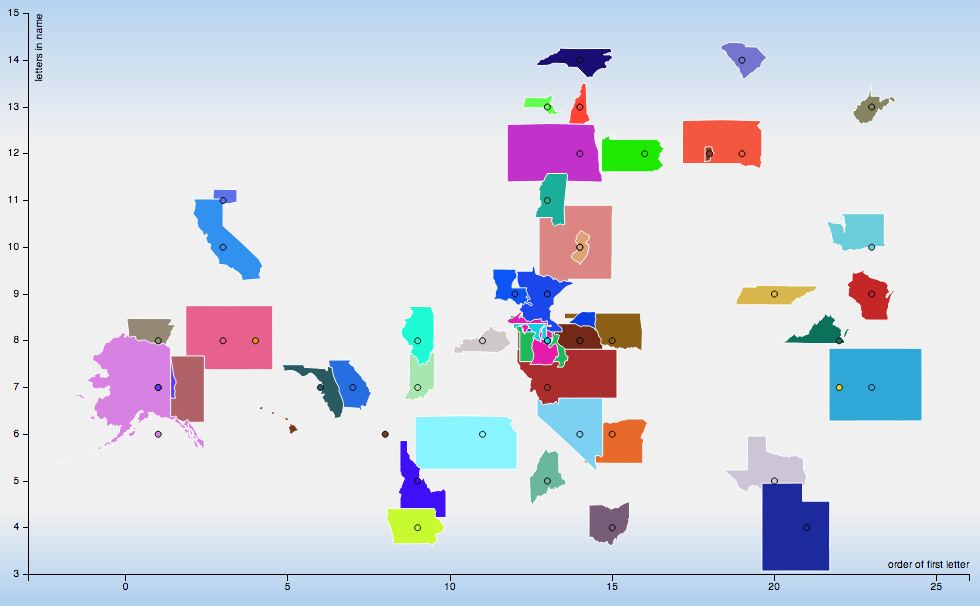
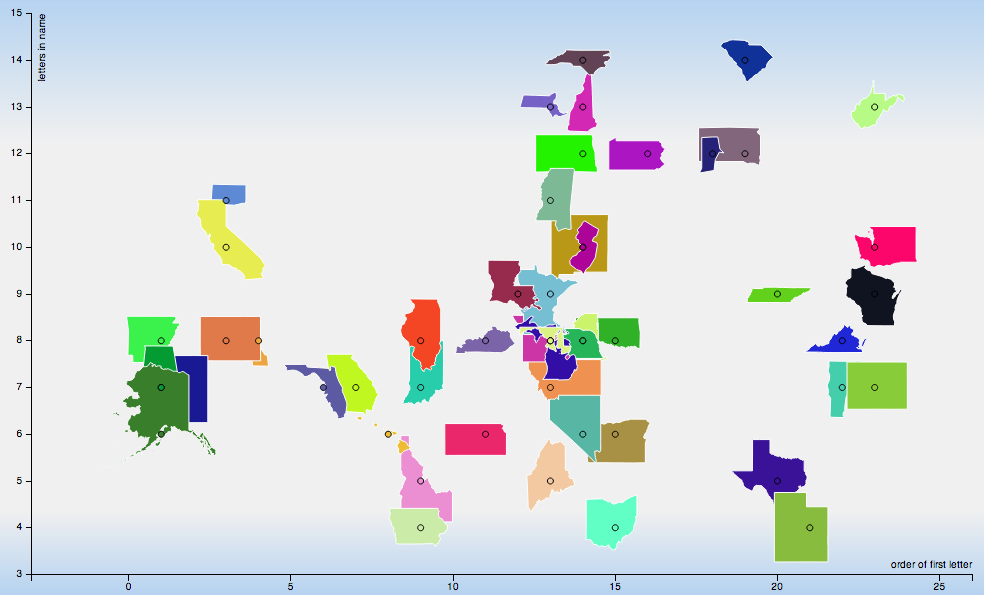
add scaled states example

diff --git a/scatterstates.js b/scatterstates.js
@@ -71,10 +71,10 @@ var centroidAndSpan = function(poly){
     for(var p=0;p<pts.length-1;p++){
       x += pts[p][0] * 1.0;
       y += pts[p][1] * 1.0;
-      maxlat = Math.max(maxlat, y);
-      minlat = Math.min(minlat, y);
-      maxlng = Math.max(maxlng, x);
-      minlng = Math.min(minlng, x);
+      maxlat = Math.max(maxlat, pts[p][1] * 1.0);
+      minlat = Math.min(minlat, pts[p][1] * 1.0);
+      maxlng = Math.max(maxlng, pts[p][0] * 1.0);
+      minlng = Math.min(minlng, pts[p][0] * 1.0);
     }
     x /= pts.length - 1;
     y /= pts.length - 1;
@@ -86,12 +86,12 @@ var centroidAndSpan = function(poly){
       var pts=polys[e][0];
       ptcount += pts.length - 1;
       for(var p=0;p<pts.length-1;p++){
+        maxlat = Math.max(maxlat, pts[p][1] * 1.0);
+        minlat = Math.min(minlat, pts[p][1] * 1.0);
+        maxlng = Math.max(maxlng, pts[p][0] * 1.0);
+        minlng = Math.min(minlng, pts[p][0] * 1.0);
         x += pts[p][0] * 1.0;
         y += pts[p][1] * 1.0;
-        maxlat = Math.max(maxlat, y);
-        minlat = Math.min(minlat, y);
-        maxlng = Math.max(maxlng, x);
-        minlng = Math.min(minlng, x);
       }
     }
     x /= ptcount;
@@ -120,19 +120,18 @@ d3.json("usa.geojson", function(err, countries) {
       minspan = Math.min(minspan, ctr[1]);
     }
   }
-  geoscale = 100000;
 
   // load states
   var countrygeos = svg.selectAll("svg")
     .data(countries.features).enter()
     .append("path")
-    .attr("d", geopath.projection( d3.geo.mercator().scale(geoscale).center([0,0]) ) )
+    .attr("d", geopath.projection( d3.geo.mercator().scale(1).center([0,0]) ) )
     .style("fill", function(d) { return color(d); })
     .style("stroke", "#fff");
 
   // center states and scale them
   for(var t=0;t<countrygeos[0].length;t++){
-    geoscale = 40000 / Math.pow(countries.features[t].properties.span, 0.3);
+    geoscale = 11000 / Math.pow(countries.features[t].properties.span, 0.65);
     d3.select(countrygeos[0][t]).attr("d", geopath.projection( d3.geo.mercator().scale(geoscale).center( centroidAndSpan(countries.features[t].geometry)[0] ) ) );
   }
 
